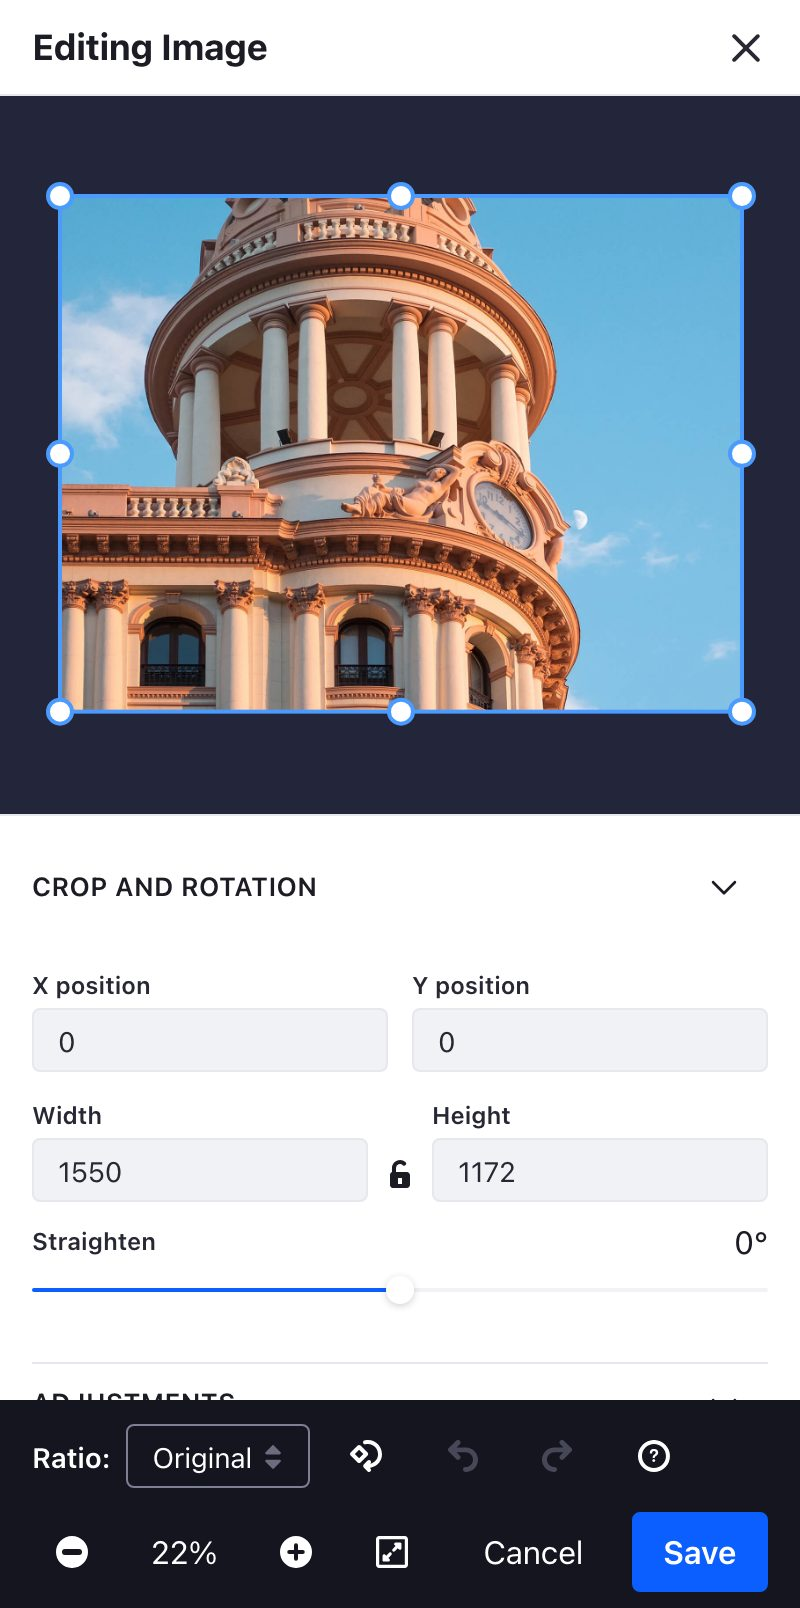
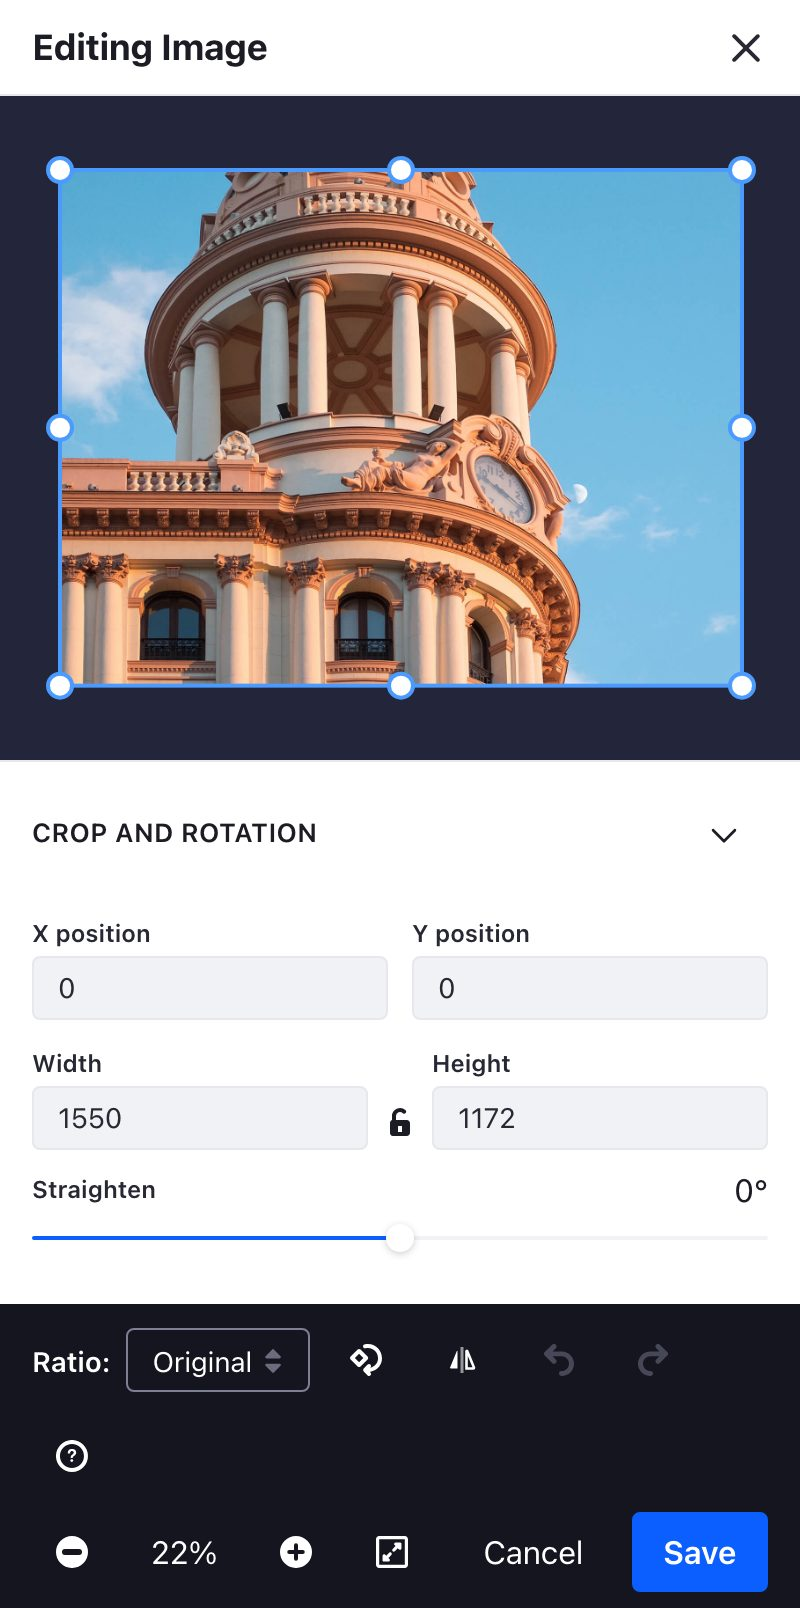
Add a horizontal flip beside the quarter turn

diff --git a/e2e/flip.spec.ts b/e2e/flip.spec.ts
@@ -1,0 +1,69 @@
+/**
+ * SPDX-FileCopyrightText: (c) 2026 Liferay, Inc. https://liferay.com
+ * SPDX-License-Identifier: LGPL-2.1-or-later OR LicenseRef-Liferay-DXP-EULA-2.0.0-2023-06
+ */
+
+import {expect, test} from '@playwright/test';
+
+/**
+ * Flipping mirrors the picture and everything placed on it.
+ */
+
+test('flips the image horizontally, and back', async ({page}) => {
+	await page.goto('/');
+
+	await page.getByRole('button', {name: 'Edit sample image'}).click();
+	await expect(page.locator('.modal')).toHaveCSS('opacity', '1');
+	await page.waitForTimeout(600);
+
+	const stage = page.locator('.editor-workspace image').first();
+
+	await expect(stage).not.toHaveAttribute('transform', /scale\(-1/);
+
+	// A redaction has to travel with the picture: left where it was would
+	// mean uncovering exactly what it hides.
+
+	await page.getByRole('button', {exact: true, name: 'Add redaction'}).click();
+	await page.waitForTimeout(300);
+
+	// Off centre on purpose: an annotation sitting in the middle mirrors
+	// onto itself and would prove nothing.
+
+	const positionX = page.locator('#layer-prop-x');
+
+	await positionX.fill('200');
+	await positionX.press('Enter');
+	await page.waitForTimeout(300);
+
+	const before = await positionX.inputValue();
+
+	await page.getByRole('button', {name: 'Flip horizontally'}).click();
+	await page.waitForTimeout(400);
+
+	await expect(page.getByRole('status')).toContainText(
+		'Image flipped horizontally'
+	);
+
+	const flipped = await page
+		.locator('.editor-workspace image')
+		.first()
+		.evaluate((element) => element.parentElement!.getAttribute('transform'));
+
+	expect(flipped).toContain('scale(-1 1)');
+
+	const after = await positionX.inputValue();
+
+	expect(Number(after)).not.toBe(Number(before));
+
+	// Flipping again is the identity, and undo covers it in one step.
+
+	await page.getByRole('button', {name: 'Flip horizontally'}).click();
+	await page.waitForTimeout(400);
+
+	expect(await positionX.inputValue()).toBe(before);
+
+	await page.getByRole('button', {name: 'Undo'}).click();
+	await page.waitForTimeout(400);
+
+	expect(Number(await positionX.inputValue())).toBe(Number(after));
+});

diff --git a/src/state/editorReducer.test.ts b/src/state/editorReducer.test.ts
@@ -298,3 +298,73 @@ describe('editorReducer', () => {
 		expect(state.present.overlays).toHaveLength(1);
 	});
 });
+
+describe('flip-horizontal', () => {
+	const start = () => initialHistory(1000, 600);
+
+	it('mirrors the composition and returns on the second flip', () => {
+		const once = editorReducer(start(), {type: 'flip-horizontal'});
+
+		expect(once.present.flipHorizontal).toBe(true);
+
+		const twice = editorReducer(once, {type: 'flip-horizontal'});
+
+		expect(twice.present.flipHorizontal).toBe(false);
+	});
+
+	it('carries the crop, so the frame keeps its subject', () => {
+		const cropped = editorReducer(start(), {
+			crop: {height: 200, width: 300, x: 100, y: 50},
+			type: 'set-crop',
+		});
+
+		const flipped = editorReducer(cropped, {type: 'flip-horizontal'});
+
+		// 1000 - 100 - 300
+
+		expect(flipped.present.crop).toEqual({
+			height: 200,
+			width: 300,
+			x: 600,
+			y: 50,
+		});
+
+		const back = editorReducer(flipped, {type: 'flip-horizontal'});
+
+		expect(back.present.crop).toEqual(cropped.present.crop);
+	});
+
+	it('carries the annotations, so a redaction keeps what it covers', () => {
+		const withRedaction = editorReducer(start(), {
+			overlay: {
+				height: 80,
+				id: 'redact-1',
+				kind: 'redact',
+				level: 'fine',
+				width: 120,
+				x: 200,
+				y: 40,
+			},
+			type: 'add-overlay',
+		});
+
+		const flipped = editorReducer(withRedaction, {
+			type: 'flip-horizontal',
+		});
+
+		// 1000 - 200 - 120
+
+		expect(flipped.present.overlays[0]).toMatchObject({x: 680, y: 40});
+
+		const back = editorReducer(flipped, {type: 'flip-horizontal'});
+
+		expect(back.present.overlays[0]).toMatchObject({x: 200, y: 40});
+	});
+
+	it('is one undoable step', () => {
+		const flipped = editorReducer(start(), {type: 'flip-horizontal'});
+		const undone = editorReducer(flipped, {type: 'undo'});
+
+		expect(undone.present.flipHorizontal).toBe(false);
+	});
+});

diff --git a/src/components/BottomBar.tsx b/src/components/BottomBar.tsx
@@ -96,17 +96,59 @@ export function BottomBar({
 				)}
 
 				{showRotate && (
-					<ClayButtonWithIcon
-						aria-label={t('rotate-90')}
-						className="editor-bar-button"
-						displayType="unstyled"
-						onClick={() => {
-							dispatch({type: 'rotate-90'});
-							onAnnounce(t('rotated-90'));
-						}}
-						symbol="rotate"
-						title={t('rotate-90')}
-					/>
+					<>
+						<ClayButtonWithIcon
+							aria-label={t('rotate-90')}
+							className="editor-bar-button"
+							displayType="unstyled"
+							onClick={() => {
+								dispatch({type: 'rotate-90'});
+								onAnnounce(t('rotated-90'));
+							}}
+							symbol="rotate"
+							title={t('rotate-90')}
+						/>
+
+						{/*
+						  * Clay has no flip glyph, so the icon is drawn here:
+						  * two shapes facing each other across the axis they
+						  * mirror about.
+						  */}
+						<ClayButton
+							aria-label={t('flip-horizontal')}
+							className="btn-monospaced editor-bar-button"
+							displayType="unstyled"
+							onClick={() => {
+								dispatch({type: 'flip-horizontal'});
+								onAnnounce(t('flipped-horizontal'));
+							}}
+							title={t('flip-horizontal')}
+						>
+							<svg
+								aria-hidden="true"
+								focusable="false"
+								height="16"
+								viewBox="0 0 16 16"
+								width="16"
+							>
+								<path
+									d="M7.25 1.5h1.5v13h-1.5z"
+									fill="currentColor"
+									opacity="0.55"
+								/>
+								<path
+									d="M5.75 3.75v8.5H2.4a.4.4 0 0 1-.32-.64l3.35-8.1a.2.2 0 0 1 .32.24Z"
+									fill="currentColor"
+								/>
+								<path
+									d="M10.25 3.75v8.5h3.35a.4.4 0 0 0 .32-.64l-3.35-8.1a.2.2 0 0 0-.32.24Z"
+									fill="none"
+									stroke="currentColor"
+									strokeWidth="1.3"
+								/>
+							</svg>
+						</ClayButton>
+					</>
 				)}
 
 				<ClayButtonWithIcon

diff --git a/src/state/editorReducer.ts b/src/state/editorReducer.ts
@@ -4,6 +4,7 @@
  */
 
 import {t} from '../i18n';
+import {mirrorOverlay} from '../imaging/overlayShapes';
 import {
 	Adjustments,
 	CropRect,
@@ -34,6 +35,7 @@ export type EditorAction =
 	| {angle: number; transient?: boolean; type: 'set-angle'}
 	| {crop: CropRect; transient?: boolean; type: 'set-crop'}
 	| {filter: FilterPreset; type: 'set-filter'}
+	| {type: 'flip-horizontal'}
 	| {ratio: RatioPreset; type: 'set-ratio'}
 	| {type: 'rotate-90'}
 	| {
@@ -53,6 +55,7 @@ export function initialEditState(
 		angle: 0,
 		crop: {height: sourceHeight, width: sourceWidth, x: 0, y: 0},
 		filter: 'none',
+		flipHorizontal: false,
 		overlays: [],
 		ratio: 'original',
 		rotation: 0,
@@ -242,6 +245,30 @@ export function editorReducer(
 				history,
 				{...present, crop, ratio: action.ratio},
 				t('label-ratio')
+			);
+		}
+
+		case 'flip-horizontal': {
+			// The crop and the annotations mirror with the picture, so a
+			// frame keeps its subject and a redaction keeps covering what
+			// it was covering.
+
+			const bounds = rotatedSize(present);
+
+			return applyEdit(
+				history,
+				{
+					...present,
+					crop: {
+						...present.crop,
+						x: bounds.width - present.crop.x - present.crop.width,
+					},
+					flipHorizontal: !present.flipHorizontal,
+					overlays: present.overlays.map((overlay) =>
+						mirrorOverlay(overlay, bounds.width)
+					),
+				},
+				t('label-flip')
 			);
 		}
 

diff --git a/src/imaging/overlayShapes.tsx b/src/imaging/overlayShapes.tsx
@@ -684,3 +684,33 @@ function renderOverlayNode(overlay: Overlay, redactSource?: RedactSource) {
 			return null;
 	}
 }
+
+/**
+ * The same overlay, mirrored horizontally inside a frame of `boundsWidth`.
+ * A flip has to carry the annotations with it: a redaction that stayed put
+ * while the photograph mirrored underneath would uncover exactly what it
+ * was hiding.
+ */
+export function mirrorOverlay(overlay: Overlay, boundsWidth: number): Overlay {
+	const rotation = overlay.rotation ? -overlay.rotation : overlay.rotation;
+
+	if (overlay.kind === 'sticker') {
+		return {...overlay, rotation, x: boundsWidth - overlay.x};
+	}
+
+	if (overlay.kind === 'text') {
+		const width = textWidth(
+			overlay.text,
+			overlay.fontFamily,
+			overlay.fontSize
+		);
+
+		return {...overlay, rotation, x: boundsWidth - overlay.x - width};
+	}
+
+	return {
+		...overlay,
+		rotation,
+		x: boundsWidth - overlay.x - overlay.width,
+	};
+}

diff --git a/src/imaging/geometry.ts b/src/imaging/geometry.ts
@@ -58,13 +58,17 @@ export function coverScale(
 export function imageTransform(
 	state: Pick<
 		EditState,
-		'angle' | 'rotation' | 'sourceHeight' | 'sourceWidth'
+		'angle' | 'flipHorizontal' | 'rotation' | 'sourceHeight' | 'sourceWidth'
 	>
 ): string | undefined {
 	const quarter = rotationTransform(state);
 
+	const mirror = state.flipHorizontal
+		? `translate(${rotatedSize(state as EditState).width} 0) scale(-1 1)`
+		: undefined;
+
 	if (!state.angle) {
-		return quarter;
+		return [mirror, quarter].filter(Boolean).join(' ') || undefined;
 	}
 
 	const bounds = rotatedSize(state as EditState);
@@ -79,7 +83,7 @@ export function imageTransform(
 		`translate(${centerX} ${centerY}) scale(${scale}) ` +
 		`translate(${-centerX} ${-centerY})`;
 
-	return quarter ? `${straighten} ${quarter}` : straighten;
+	return [mirror, straighten, quarter].filter(Boolean).join(' ');
 }
 
 /**

diff --git a/src/i18n/en.ts b/src/i18n/en.ts
@@ -86,6 +86,8 @@ export default {
 	'filter-vivid': 'Vivid',
 	'filter-warm': 'Warm',
 	filters: 'Filters',
+	'flip-horizontal': 'Flip horizontally',
+	'flipped-horizontal': 'Image flipped horizontally',
 	'font-family': 'Font family',
 	'font-monospace': 'Monospace',
 	'font-sans-serif': 'Sans serif',
@@ -100,6 +102,7 @@ export default {
 	'label-annotation': 'annotation change',
 	'label-crop': 'crop change',
 	'label-filter': 'filter change',
+	'label-flip': 'Flip',
 	'label-layer-order': 'layer order change',
 	'label-ratio': 'ratio change',
 	'label-rotate': 'rotation',

diff --git a/src/state/types.ts b/src/state/types.ts
@@ -151,6 +151,13 @@ export interface EditState {
 	angle: number;
 	crop: CropRect;
 	filter: FilterPreset;
+
+	/**
+	 * Mirrors the composition horizontally. Applied last, so it mirrors
+	 * whatever the quarter turns and the straighten angle produced, which
+	 * is what flipping a photograph is expected to do.
+	 */
+	flipHorizontal: boolean;
 	overlays: Overlay[];
 	ratio: RatioPreset;
 	rotation: Rotation;

diff --git a/website/index.html b/website/index.html
@@ -201,7 +201,7 @@
 								</li>
 								<li>
 									Straighten at any angle with automatic cover scaling,
-									and rotate 90 degrees
+									rotate 90 degrees, and flip horizontally
 								</li>
 								<li>
 									Zoom and fit, anchored to the pointer;

diff --git a/README.md b/README.md
@@ -14,6 +14,7 @@ The editor is **parametric and declarative**:
 - The preview is **SVG in the DOM**, not canvas: the raster image is an `<image>` element, color adjustments and the 20 filter presets are declarative SVG filter primitives (`feComponentTransfer`, `feColorMatrix`) described as data in one recipe table, and every annotation is a real, focusable, labelled DOM node.
 - The export serializes **the same SVG** at full resolution and rasterizes it offscreen; a canvas exists only as the final encoder, invisible to the user and absent from the accessibility tree. Preview and export share the same components (`FilterDefs`, `rotationTransform`, `OverlayShape`), so what you see is what you save by construction.
 - Focus on the stage (crop area, handles, annotations) is a **Clay-style double ring** (white inner + accent outer) drawn as real SVG geometry, because browsers do not reliably paint CSS outlines on SVG children.
+- **Flipping** mirrors the whole composition horizontally, and it carries the crop and every annotation with it: a redaction that stayed put while the photograph mirrored underneath would uncover exactly what it was hiding. It is one entry in the history, and flipping twice returns to the original.
 - **Straightening** is a free angle in degrees on top of the quarter turns: the image is scaled by exactly the factor needed to keep covering the frame, so no empty corners appear and the crop and annotation coordinate space is untouched.
 - While a crop gesture runs, a **thirds grid** appears as a composition aid; a **recenter control** in the middle of the crop zooms and scrolls until that region fills the view (a view operation, so it never enters the edit history), and hides itself once the view already frames the crop.
 - **Redactions** pixelate an area for real: tiny downsampled copies of the image (four block sizes, small by default) are prepared once at load time and revealed through a clip, scaled back up with nearest-neighbor, and passed through the same color pipeline as the image so the mosaic matches what is on screen. They behave exactly like a rectangle otherwise, and the mosaic stays locked to the photo even when the block is rotated.
@@ -47,7 +48,7 @@ complete editor.
 | --- | --- | --- |
 | `adjustments` | hides the panel | `sliders`: any of brightness, contrast, saturation, shadows, highlights |
 | `annotate` | hides the panel and the layers list | `tools`: text, rectangle, redaction, stickers · `stickers`: any of the 10 shapes |
-| `crop` | hides the panel, the on-stage marquee and the ratio control | `ratios`: which presets to offer · `rotate`: the quarter-turn button · `straighten`: the angle slider |
+| `crop` | hides the panel, the on-stage marquee and the ratio control | `ratios`: which presets to offer · `rotate`: the quarter-turn and flip buttons · `straighten`: the angle slider |
 | `filters` | hides the gallery | `presets`: any of the 19 looks |
 
 Lists are always applied in the component's canonical order, and unknown
